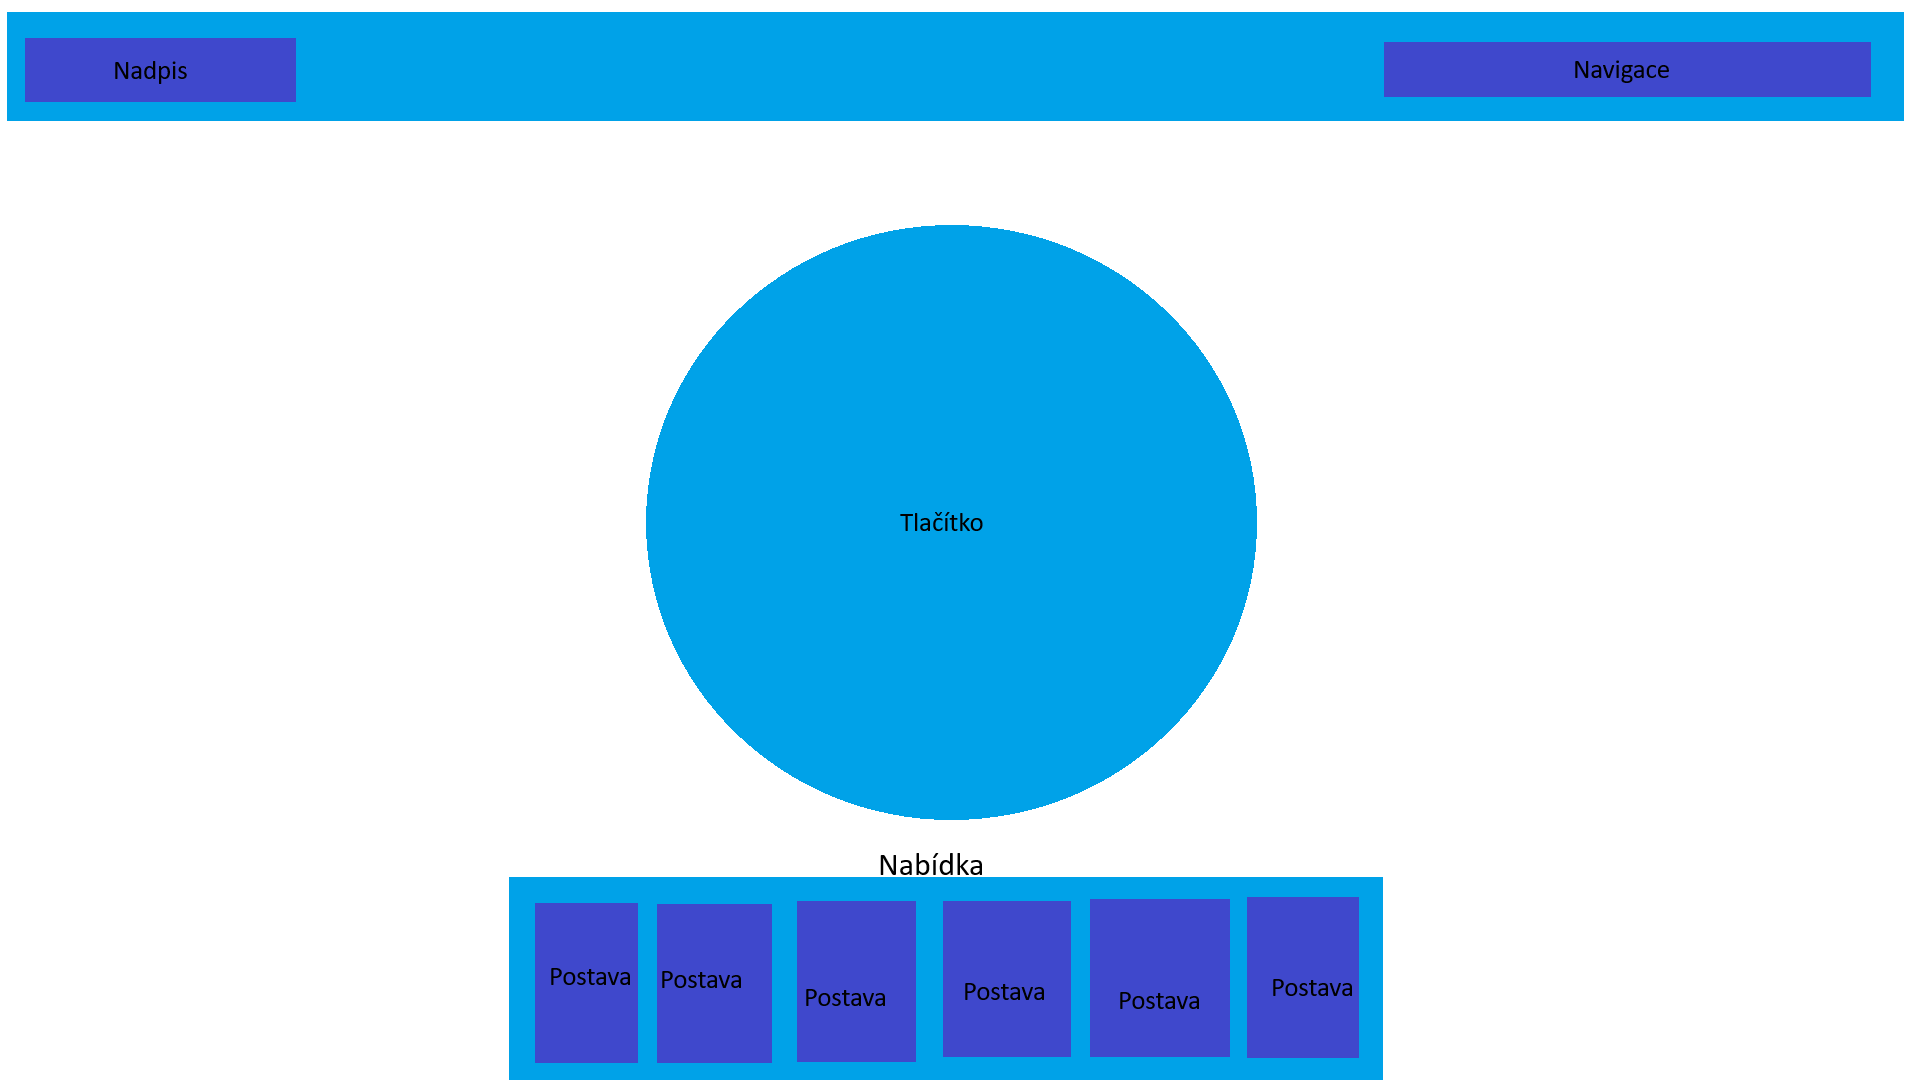
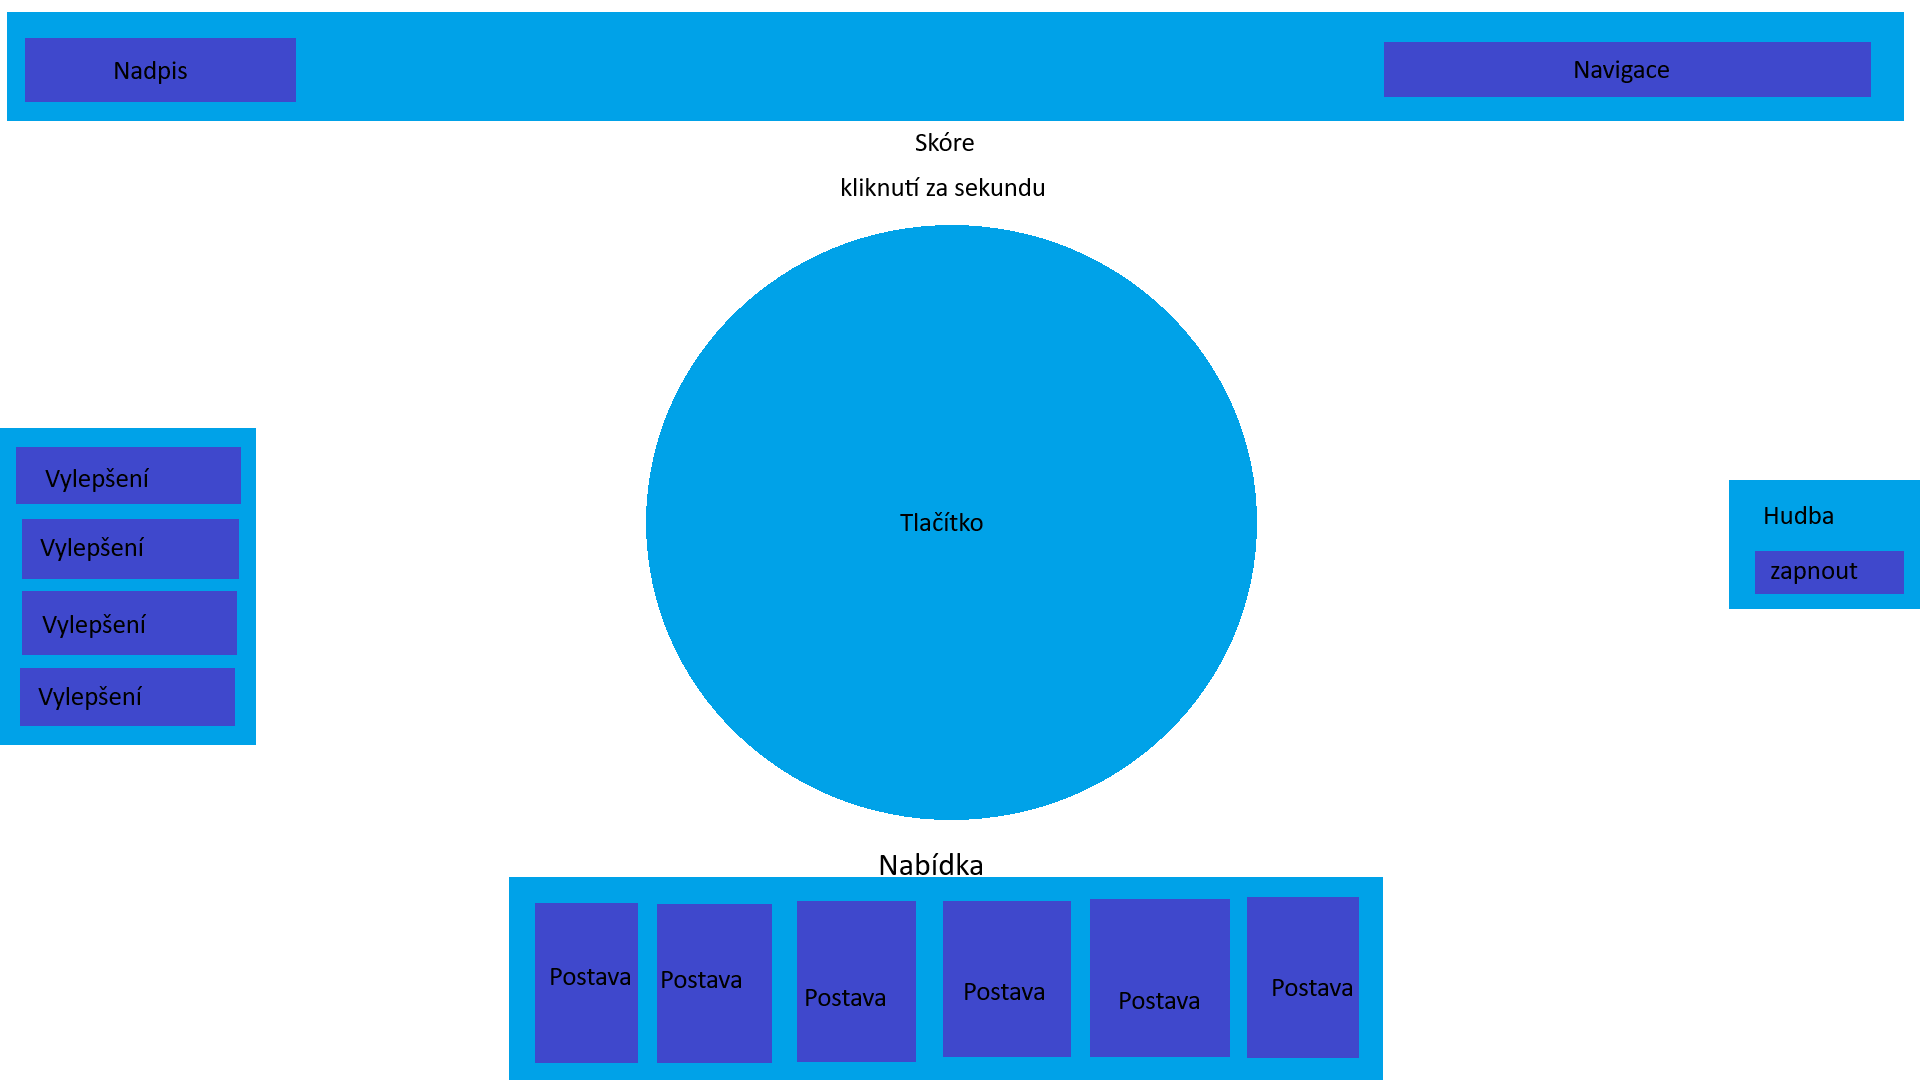
idk fix

Changed region(s): [[0.0, 0.3972, 0.1562, 0.7028], [0.875, 0.4278, 1.0, 0.5806], [0.4375, 0.1222, 0.5312, 0.1833]]

diff --git a/uvodni_stranka.html b/uvodni_stranka.html
@@ -5,7 +5,7 @@
     <meta name="viewport" content="width=device-width, initial-scale=1.0">
     <meta name="keywords" content="Brainrot, Sahur, tralalero tralala, clicker, cookie clicker, hra, webová hra,">
     <meta name="author" content="Lukáš Hegner, Tomáš Horský, Miroslav Končal">
-    <meta name="description" content="Brainrot clicker, nejlepší hra nasvětě. Jestli se cheš dozvědět víc, jsi na spravném místě.">
+    <meta name="description" content="Brainrot clicker, nejlepší hra nasvětě.">
     <title>Brainrot Clicker</title>
     <link rel="icon" type="image/x-icon" href="./media/epic_logo.png"> <!-- Odkaz na ikonu stránky -->
     <link rel="stylesheet" href="./style.css">
@@ -20,6 +20,24 @@
     <header>
         <h1>Brainrot clicker</h1>
         <nav><a href="index.html">Hra</a><a href="./achivements.html">Úspěchy</a><a href="./uvodni_stranka.html">Úvod</a></nav>
+        <script>
+            // tomasovo prezentace obrazku
+            const images = [
+                "./media/sahur.png",
+                "./media/tralalero.png",
+                "./media/bombardino.png",
+                "./media/lirili.png",
+                "./media/Patapim.png",
+                "./media/chimpanz.png"
+            ];
+            let currentImageIndex = 0;
+
+            function changeImage() {
+                document.getElementById("imageDisplay").src = images[currentImageIndex];
+                currentImageIndex = (currentImageIndex + 1) % images.length;
+            }
+            setInterval(changeImage, 5000);
+        </script>
     </header>
     <main>
         
@@ -38,6 +56,9 @@
         <li>Líbezné zvuky</li> <!-- Zvuky dodávající atmosféru -->
         <li>Achievmenty</li> <!-- Odměny za dosažené milníky -->
         </ul>
+        <div class="imageShow">
+            <img src="./media/sahur.png" alt="Zobrazovaná brainrot postava" id="imageDisplay">
+        </div>
     
         <article>
             <h3>Autoři:</h3>

diff --git a/index.html b/index.html
@@ -5,6 +5,7 @@
     <meta name="viewport" content="width=device-width, initial-scale=1.0">
     <title>Clicker Score</title>
     <link rel="stylesheet" href="./style.css">
+    <link rel="icon" type="image/x-icon" href="./media/epic_logo.png">
 </head>
 <body>
     <header>
@@ -87,7 +88,7 @@
         </div>
         <div class="animalFrame" onclick="buyAnimal('lirili')">
             <p class="animalName">Lirili Larila</p>
-            <img src="./media/Lirili_Larila.png" alt="Lirili Larila" class="animalImage">
+            <img src="./media/lirili.png" alt="Lirili Larila" class="animalImage">
             <p id="liriliPriceValue"></p>
             <p id="liriliCountValue"></p>
         </div>
@@ -99,7 +100,7 @@
         </div>
         <div class="animalFrame" onclick="buyAnimal('bananini')">
             <p class="animalName">Chimpanzini Bananini</p>
-            <img src="./media/Chimpanzini_Bananini.png" alt="Chimpanzini Bananini" class="animalImage">
+            <img src="./media/chimpanz.png" alt="Chimpanzini Bananini" class="animalImage">
             <p id="bananiniPriceValue"></p>
             <p id="bananiniCountValue"></p>
         </div>

diff --git a/achivements.html b/achivements.html
@@ -5,8 +5,9 @@
     <meta name="viewport" content="width=device-width, initial-scale=1.0">
     <meta name="keywords" content="Brainrot, Sahur, tralalero tralala, clicker, cookie clicker, hra, webová hra,">
     <meta name="author" content="Lukáš Hegner, Tomáš Horský, Miroslav Končal">
-    <meta name="description" content="Brainrot clicker, nejlepší hra nasvětě. Jestli se cheš dozvědět víc, jsi na spravném místě.">
+    <meta name="description" content="Brainrot clicker, nejlepší hra na světě.">
     <link rel="stylesheet" href="style.css">
+    <link rel="icon" type="image/x-icon" href="./media/epic_logo.png">
     <title>Title</title>
 </head>
 <body>

diff --git a/style.css b/style.css
@@ -6,6 +6,7 @@ Paleta barev:
     asparagus: #77ad78ff;
 */
 
+/* HRA */
 /* horní panel */
 
 header{
@@ -156,7 +157,7 @@ button, p{
 #descriptionText{
     margin: 15px;
     position: absolute;
-    transition: .2s;
+    transition: .5s;
     text-shadow: rgba(119, 173, 120, 1) 0px 5px 8px;
 }
 
@@ -289,4 +290,10 @@ button, p{
 .animalImage{
     height: 120px;
     object-fit: contain;
+}
+
+/* ÚVODNÍ STRANA */
+
+#imageDisplay{
+    height: 300px;
 }

diff --git a/descriptions.js b/descriptions.js
@@ -6,9 +6,10 @@ descriptions = {
 }
 
 function show(upgrade) {
+    document.getElementById("descriptionText").style.opacity = "1"
     document.getElementById("descriptionText").innerHTML = descriptions[upgrade]
 }
 
 function hide() {
-    document.getElementById("descriptionText").innerHTML = ""
+    document.getElementById("descriptionText").style.opacity = "0"
 }
